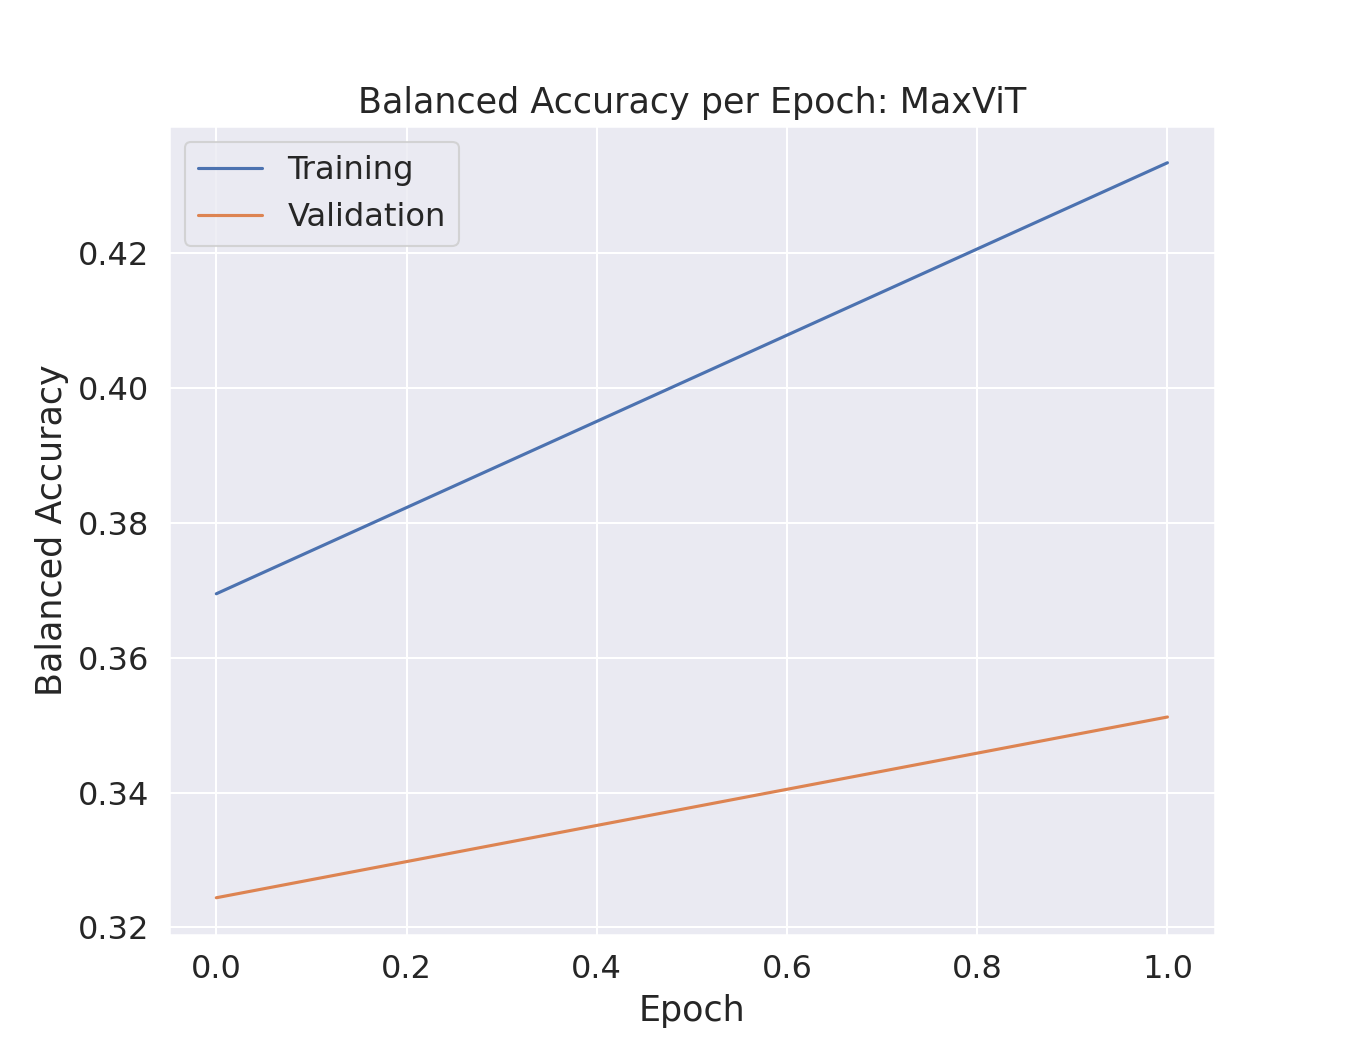
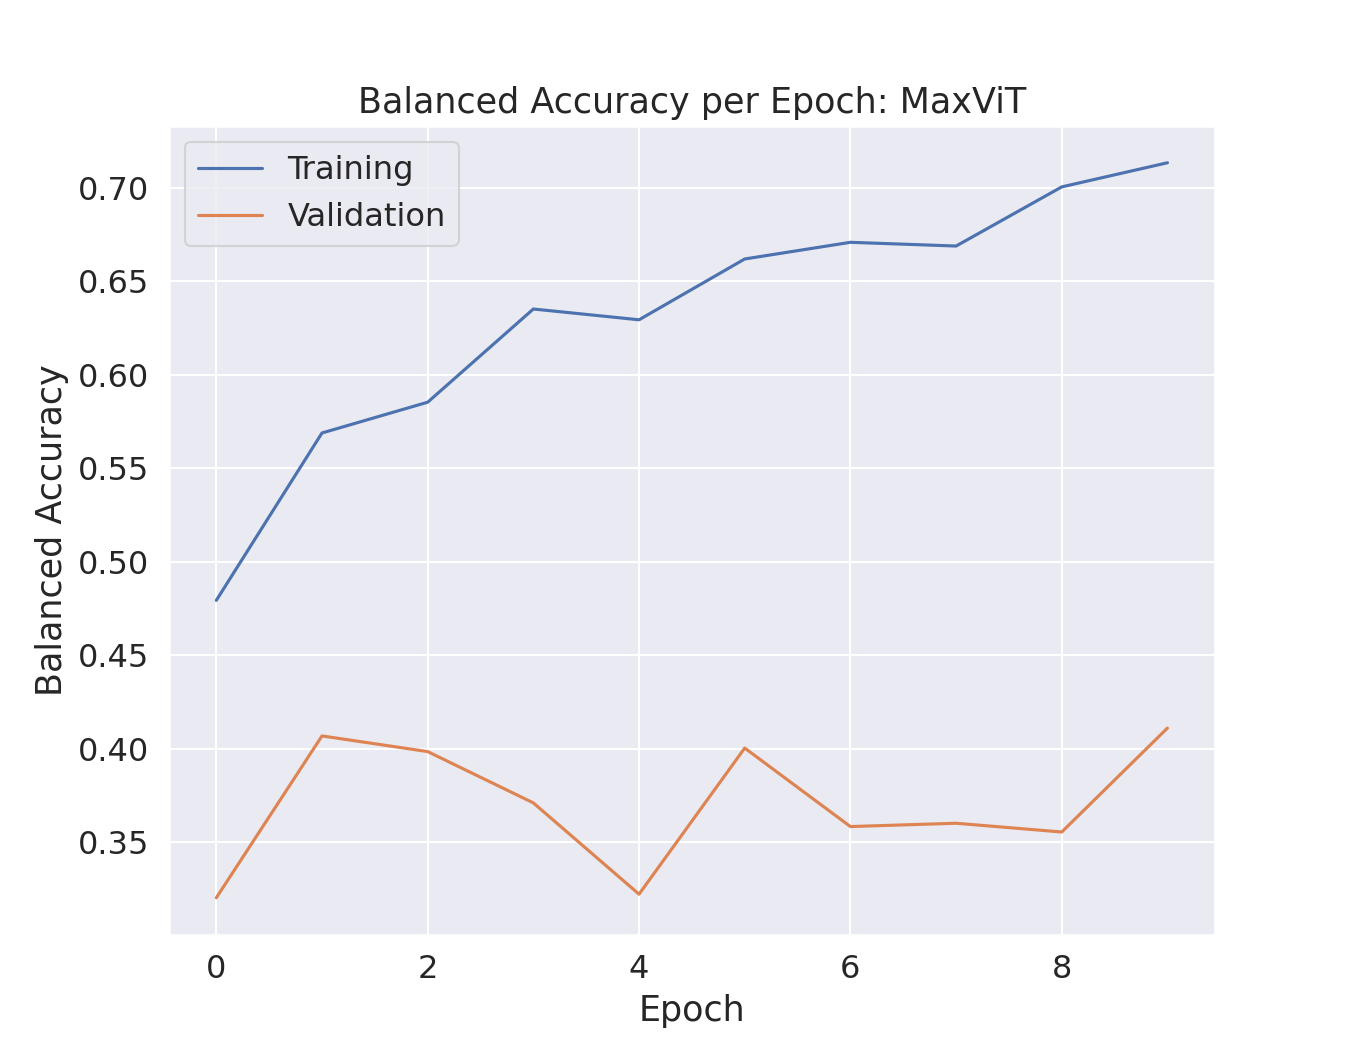
final commit

diff --git a/data/__init__.py b/data/__init__.py
@@ -52,7 +52,6 @@ class RandomNoise:
 
 def read_dataset(dataset_path):
     df = pd.read_csv(dataset_path+'data_csv/train-v2_table_list_slice.csv')
-    # df.drop(df.tail(16600).index, axis=0, inplace=True)
     return df
 
 def plot_augmentations(image_path, augment_list, transform, save_path):
@@ -75,10 +74,6 @@ def plot_augmentations(image_path, augment_list, transform, save_path):
     image = Image.fromarray(rgb_image_array)
 
     image = transform(image)
-
-    print("image mode",image.mode)
-
-    # image = image.resize((512,512))
 
     fig = plt.figure(figsize=(2+(2*len(augment_list)), 3), dpi=250)
 
@@ -123,7 +118,6 @@ def preprocess_dataset(df, dataset_path, n_augment, batch_size, img_size, savefi
     transform = transforms.Compose([
         transforms.Resize((img_size, img_size), antialias=True), 
         transforms.ToTensor(),  # Convert PIL image to PyTorch tensor
-        # transforms.Normalize(mean=[0.485, 0.456, 0.406], std=[0.229, 0.224, 0.225])  # Normalize to ImageNet mean and std
         transforms.Normalize(mean=[0.0824, 0.0824, 0.0824], std=[0.1355, 0.1355, 0.1355])  # Normalize to DBT dataset mean and std
     ])
 
@@ -149,8 +143,11 @@ def preprocess_dataset(df, dataset_path, n_augment, batch_size, img_size, savefi
     # Create data loaders for training, validation and testing
     train_loader, val_loader, test_loader = create_data_loaders(train_dataset, val_dataset, test_dataset, batch_size)
 
+    # Uncomment to calculate mean and std of the dataset (takes long)
     # mean, std, min_value, max_value = calculate_statistics(train_loader)
     # print(f"Mean: {mean}, Std: {std}, Min: {min_value}, Max: {max_value}")
+    
+    # Output: 
     # Mean: tensor([-0.0004, -0.0004, -0.0004]), Std: tensor([1.0003, 1.0003, 1.0003]), Min: -0.6081181168556213, Max: 6.771955490112305
 
     # Print the class distribution 
@@ -196,40 +193,28 @@ def mean_std(loader):
 
     return mean, std
 
-# def split_data(df, test_size=0.2, val_size=0.2):
-#     """
-#     Split the data into train, validation and test sets.
-#     """
-#     # Create a new column indicating whether each study includes at least one image where 'Cancer' is 1
-#     df['StudyHasCancer'] = df.groupby('StudyUID')['Cancer'].transform('max')
-
-#     # Get the unique studies and their cancer status
-#     unique_studies = df[['StudyUID', 'StudyHasCancer']].drop_duplicates()
-
-#     # Split the studies into a temporary train set and the test set
-#     temp_train_studies, test_studies = train_test_split(unique_studies, test_size=test_size, stratify=unique_studies['StudyHasCancer'], random_state=5)
-
-#     # Split the temporary train set into the final train set and the validation set
-#     train_studies, val_studies = train_test_split(temp_train_studies, test_size=val_size/(1-test_size), stratify=temp_train_studies['StudyHasCancer'], random_state=5)
-
-#     df.drop('StudyHasCancer', axis=1, inplace=True)
-
-#     # Get the training, validation and test data
-#     train_data = df[df['StudyUID'].isin(train_studies['StudyUID'])]
-#     val_data = df[df['StudyUID'].isin(val_studies['StudyUID'])]
-#     test_data = df[df['StudyUID'].isin(test_studies['StudyUID'])]
-
-#     return train_data, val_data, test_data
-
 def split_data(df, test_size=0.2, val_size=0.2):
     """
     Split the data into train, validation and test sets.
     """
-    # Split the data into a temporary train set and the test set
-    temp_train_data, test_data = train_test_split(df, test_size=test_size, stratify=df[['Cancer', 'Actionable', 'Benign', 'Normal']], random_state=5)
+    # Create a new column indicating whether each study includes at least one image where 'Cancer' is 1
+    df['StudyHasCancer'] = df.groupby('StudyUID')['Cancer'].transform('max')
+
+    # Get the unique studies and their cancer status
+    unique_studies = df[['StudyUID', 'StudyHasCancer']].drop_duplicates()
+
+    # Split the studies into a temporary train set and the test set
+    temp_train_studies, test_studies = train_test_split(unique_studies, test_size=test_size, stratify=unique_studies['StudyHasCancer'], random_state=5)
 
     # Split the temporary train set into the final train set and the validation set
-    train_data, val_data = train_test_split(temp_train_data, test_size=val_size/(1-test_size), stratify=temp_train_data[['Cancer', 'Actionable', 'Benign', 'Normal']], random_state=5)
+    train_studies, val_studies = train_test_split(temp_train_studies, test_size=val_size/(1-test_size), stratify=temp_train_studies['StudyHasCancer'], random_state=5)
+
+    df.drop('StudyHasCancer', axis=1, inplace=True)
+
+    # Get the training, validation and test data
+    train_data = df[df['StudyUID'].isin(train_studies['StudyUID'])]
+    val_data = df[df['StudyUID'].isin(val_studies['StudyUID'])]
+    test_data = df[df['StudyUID'].isin(test_studies['StudyUID'])]
 
     return train_data, val_data, test_data
 

diff --git a/src/train.py b/src/train.py
@@ -2,7 +2,7 @@ from utils import *
 
 def load_model(model_name, num_classes, from_path=None, img_size=512):
     if model_name=="ConvNeXt":
-        num_epochs = 6
+        num_epochs = 10
         batch_size = 16
         n_layers_to_freeze = 2
         if img_size==512:
@@ -11,13 +11,13 @@ def load_model(model_name, num_classes, from_path=None, img_size=512):
             raise Exception("Invalid image size for ConvNeXt model - only 512 accepted.")
         model = freeze_layers(model, n_layers_to_freeze)
         hyperparameters = {
-            'learning_rate': 0.001,
-            'beta1': 0.8,
-            'beta2': 0.999,
-            'weight_decay': 0.0001
+            'learning_rate': 0.0001383081539997802,
+            'beta1': 0.8830358775573881,
+            'beta2': 0.9079054643000972,
+            'weight_decay': 0.0001883318291512319
         }
     elif model_name=="MaxViT":
-        num_epochs = 7
+        num_epochs = 10
         batch_size = 16
         n_layers_to_freeze = 2
         if img_size==224:
@@ -26,12 +26,14 @@ def load_model(model_name, num_classes, from_path=None, img_size=512):
             model = timm.create_model('maxvit_base_tf_384.in21k_ft_in1k', pretrained=True, num_classes=4)
         elif img_size==512:
             model = timm.create_model('maxvit_base_tf_512.in21k_ft_in1k', pretrained=True, num_classes=4)
+        else:
+            raise Exception("Ivalid image size: "+str(img_size))
         model = freeze_layers(model, n_layers_to_freeze)
         hyperparameters = {
-            'learning_rate': 0.01,
-            'beta1': 0.9,
-            'beta2': 0.99,
-            'weight_decay': 0.001
+            'learning_rate': 0.0001597562835117293,
+            'beta1': 0.9368281565589722,
+            'beta2': 0.9383386647844132,
+            'weight_decay': 0.00008324695766965101
         }
     else:
         raise Exception("Invalid model name.")
@@ -57,7 +59,6 @@ def get_loss_optimizer(model, hyperparameters, class_counts, device):
     print("class weights:",class_weights)
 
     # Define the loss function with class weights
-    # criterion = nn.CrossEntropyLoss(weight=class_weights)
     criterion = FocalLoss(gamma=0.7, weights=class_weights)
     print("Using Focal Loss...")
     
@@ -150,9 +151,6 @@ def train_model(model, criterion, optimizer, train_loader, val_loader, test_load
 
         print(f'Train Loss: {train_epoch_loss:.4f}  |  Train ROC AUC: {train_roc_auc:.4f}  |  Train Balanced Accuracy: {train_bal_acc:.4f}')
 
-        conf_mat_train = pd.DataFrame(confusion_matrix(all_train_labels, all_train_preds), index=unique_labels, columns=unique_labels)
-        print('\nConfusion Matrix (Train):\n',conf_mat_train,'\n',sep='')
-
         # Validation
         model.eval()
         running_loss = 0.0
@@ -186,9 +184,6 @@ def train_model(model, criterion, optimizer, train_loader, val_loader, test_load
         val_balanced_accuracy_scores.append(val_bal_acc)
 
         print(f'Validation Loss: {val_epoch_loss:.4f}  |  Validation ROC AUC: {val_roc_auc:.4f}  |  Validation Balanced Accuracy: {val_bal_acc:.4f}')
-
-        conf_mat = pd.DataFrame(confusion_matrix(all_labels, all_preds), index=unique_labels, columns=unique_labels)
-        print('\nConfusion Matrix (Val):\n',conf_mat,'\n',sep='')
 
         wandb.log({"train_loss":train_epoch_loss, "val_loss":val_epoch_loss, "roc_auc_train":train_roc_auc, "roc_auc_val":val_roc_auc, "balanced_accuracy_train":train_bal_acc, "balanced_accuracy_val":val_bal_acc})
     

diff --git a/src/hyperparameter_tuning.py b/src/hyperparameter_tuning.py
@@ -2,14 +2,14 @@ from utils import *
 
 def objective(trial, device, model_name):
 
-    dataset_path ='/data/md311/Breast_Cancer_Detection_DBT/data/' 
+    dataset_path = '/data/md311/Breast_Cancer_Detection_DBT/data/' 
     df = read_dataset(dataset_path)
     
     # Define an objective function to be minimized.
-    learning_rate = trial.suggest_float('learning_rate', 1e-5, 1e-3, log=True)
+    learning_rate = trial.suggest_float('learning_rate', 1e-5, 1e-2, log=True)
     beta1 = trial.suggest_float('beta1', 0.8, 1.0)
     beta2 = trial.suggest_float('beta2', 0.9, 1.0)
-    weight_decay = trial.suggest_float('weight_decay', 1e-5, 1e-3, log=True)
+    weight_decay = trial.suggest_float('weight_decay', 1e-5, 1e-2, log=True)
     n_augment = trial.suggest_int('n_augment', 0, 25)
 
     print("\nNEW TRIAL\n")

diff --git a/src/utils.py b/src/utils.py
@@ -47,7 +47,7 @@ def parse_arguments():
     parser.add_argument('--model', choices=VALID_MODELS, default='ResNet')
     parser.add_argument('--verbose', action='store_true')
     parser.add_argument('--trials', type=check_positive, default=0)
-    parser.add_argument('--image_size', choices=VALID_SIZES, type=check_positive, default=0)
+    parser.add_argument('--image_size', choices=VALID_SIZES, type=check_positive, default=512)
 
     args = parser.parse_args()
 

diff --git a/src/main.py b/src/main.py
@@ -9,7 +9,7 @@ def fine_tuning(model_name, img_size, verbose, device):
     # Read dataset
     df = read_dataset(dataset_path)
 
-    n_augment = 1
+    n_augment = 0
     num_classes = 4
 
     model, hyperparameters, num_epochs, batch_size, img_size, n_layers_to_freeze = load_model(model_name, num_classes, img_size=img_size)

diff --git a/src/duke_dbt_data.py b/src/duke_dbt_data.py
@@ -1,4 +1,4 @@
-# https://github.com/MaciejMazurowski/duke-dbt-data/blob/master/duke_dbt_data.py
+# from https://github.com/MaciejMazurowski/duke-dbt-data/blob/master/duke_dbt_data.py
 from typing import AnyStr, BinaryIO, Dict, List, NamedTuple, Optional, Union
 
 import matplotlib

diff --git a/README.md b/README.md
@@ -1,16 +1,22 @@
-# Breast Cancer Detection via Digital Breast Tomosynthesis
+# Transformer-based Transfer Learning for Breast Cancer Detection via Digital Breast Tomosynthesis
 
 by [Mikea Dimech](dimech.ai)<br>
 *University of St Andrews*
 
-- [Breast Cancer Detection via Digital Breast Tomosynthesis](#breast-cancer-detection-via-digital-breast-tomosynthesis)
-  - [Getting Started](#getting-started)
-    - [Prerequisites](#prerequisites)
-    - [Installation](#installation)
-    - [Usage](#usage)
-  - [Author](#author)
-  - [License](#license)
+## Table of Contents
 
+- [Description](#description)
+- [Getting Started](#getting-started)
+  - [Prerequisites](#prerequisites)
+  - [Installation](#installation)
+  - [Usage](#usage)
+- [Author](#author)
+- [DOI](#doi)
+- [Cite As](#cite-as)
+
+## Description
+
+This project investigates the application of transfer learning using a Transformer-based and CNN architecture, specifically on Digital Breast Tomosynthesis (DBT) images. The dataset used was obtained from the [Cancer Imaging Archive](https://wiki.cancerimagingarchive.net/pages/viewpage.action?pageId=64685580).
 
 ## Getting Started
 
@@ -18,51 +24,69 @@ These instructions will guide you on how to set up and run the project on your l
 
 ### Prerequisites
 
-- Python (version X.X.X)
-- Other dependencies...
+- Python (version 3.8.13)
 
 ### Installation
 
 1. Clone the repository:
 
 ```
-git clone https://github.com/your-username/project-name.git
+git clone https://github.com/mikeadimech/Breast_Cancer_Detection_DBT.git
 ```
 
 2. Navigate to the project directory:
-   
 ```
-cd project-name
+cd Breast_Cancer_Detection_DBT
 ```
-   
 
 3. Install the required dependencies:
-
 ```
 pip install -r requirements.txt
 ```
-   
 
 ### Usage
 
-Instructions on how to use or run the code go here.
-
-Example command to run the main script:
-
+To run the main training script, use the following command:
 ```
-python src/main.py --model Swin --transferlearning single
+python src/main.py --model MaxViT --image_size 512
 ```
 
-Replace `Swin` and `single` with your desired values for the following arguments:
+For hyperparameter tuning:
+```
+python src/hyperparameter_tuning.py --model MaxViT --trials 100 --verbose
+```
 
-- `--model`: Possible options: `ResNet` (default), `Swin`, `ViT`, `ConvNeXt`
-- `--transferlearning`: Possible options: `single` (default), `multi`
-- `--verbose`
+For model evaluation:
+```
+python src/evaluate.py --model MaxViT
+```
+
+Replace `MaxViT` and `512` with your desired values for the following arguments:
+
+- `--model`: Model architecture. Possible options: `MaxViT` (default), `ConvNeXt`
+- `--image_size`: Image input size for the model. Possible options: `224`, `384`, `512` (default)
+- `--verbose`: For verbose output.
+- `--trials`: Number of trials for hyperparameter tuning.
 
 ## Author
 
 - [Mikea Dimech](https://github.com/mikeadimech)
 
-## License
+## DOI
 
-This project is licensed under the [License Name](LICENSE) - see the LICENSE file for details.
+[10.5281/zenodo.8243431](https://doi.org/10.5281/zenodo.8243431)
+
+## Cite As
+
+If you use this code or the associated models in your research, please cite using the following BibTeX entry:
+```
+@misc{dimech2023transformerdbt,
+author = {Dimech, Mikea},
+title = {Transformer-based Transfer Learning for Breast Cancer Detection via Digital Breast Tomosynthesis},
+year = {2023},
+publisher = {Zenodo},
+version = {1.0},
+doi = {10.5281/zenodo.8243431},
+url = {https://doi.org/10.5281/zenodo.8243431}
+}
+```
